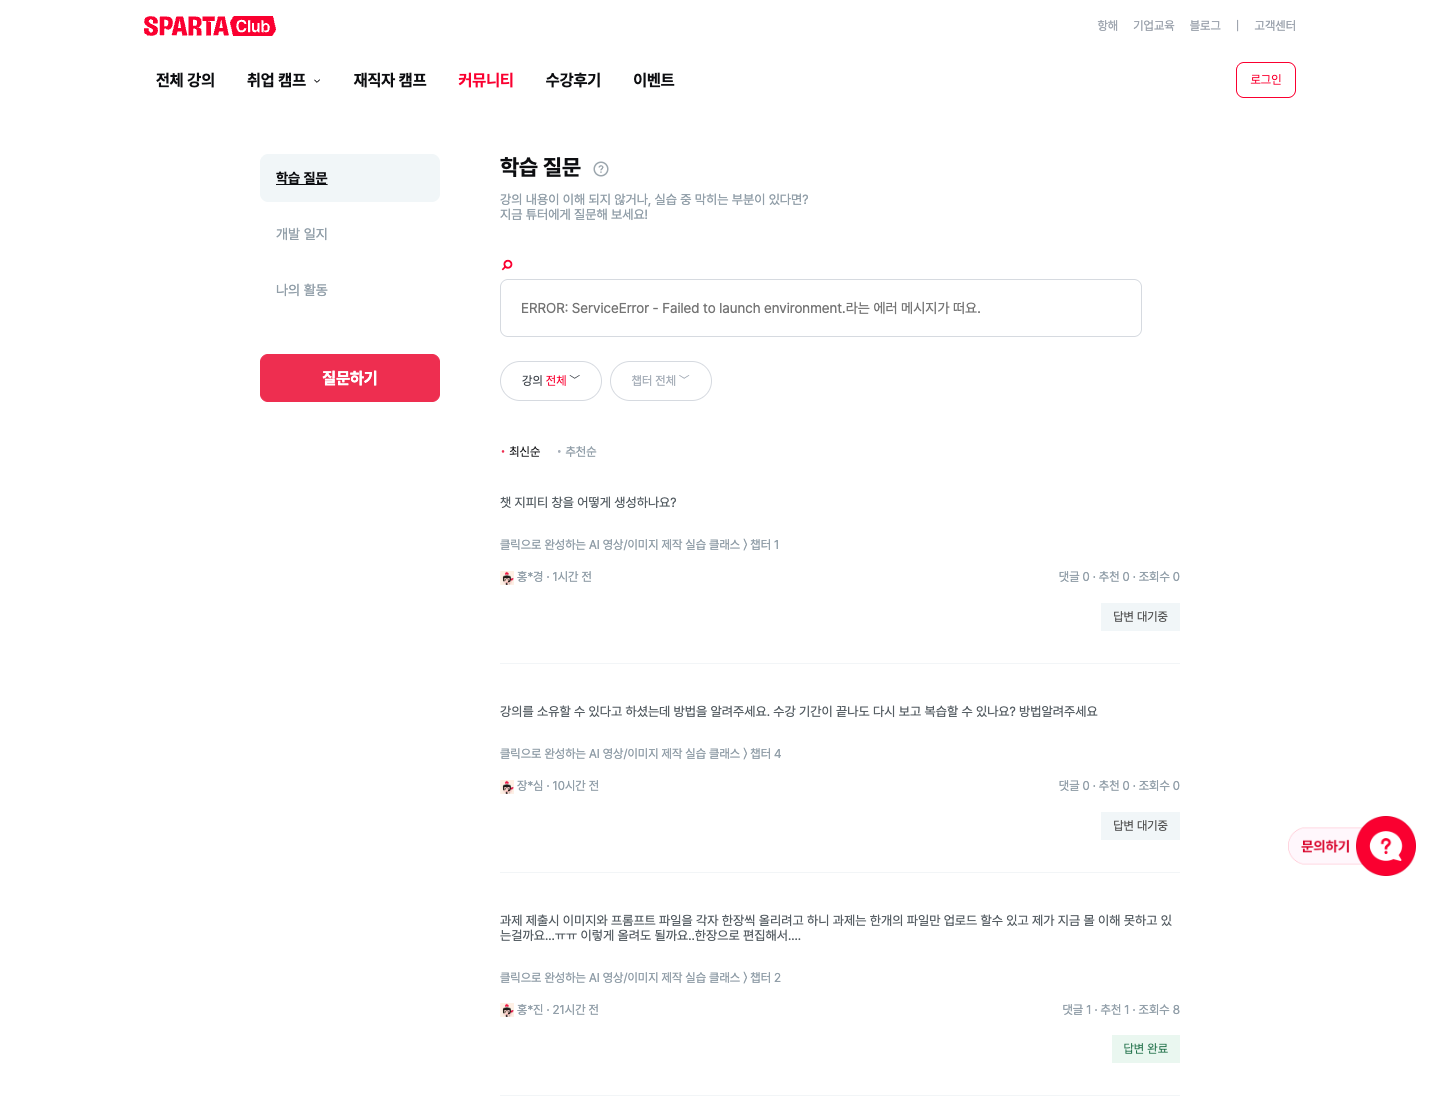
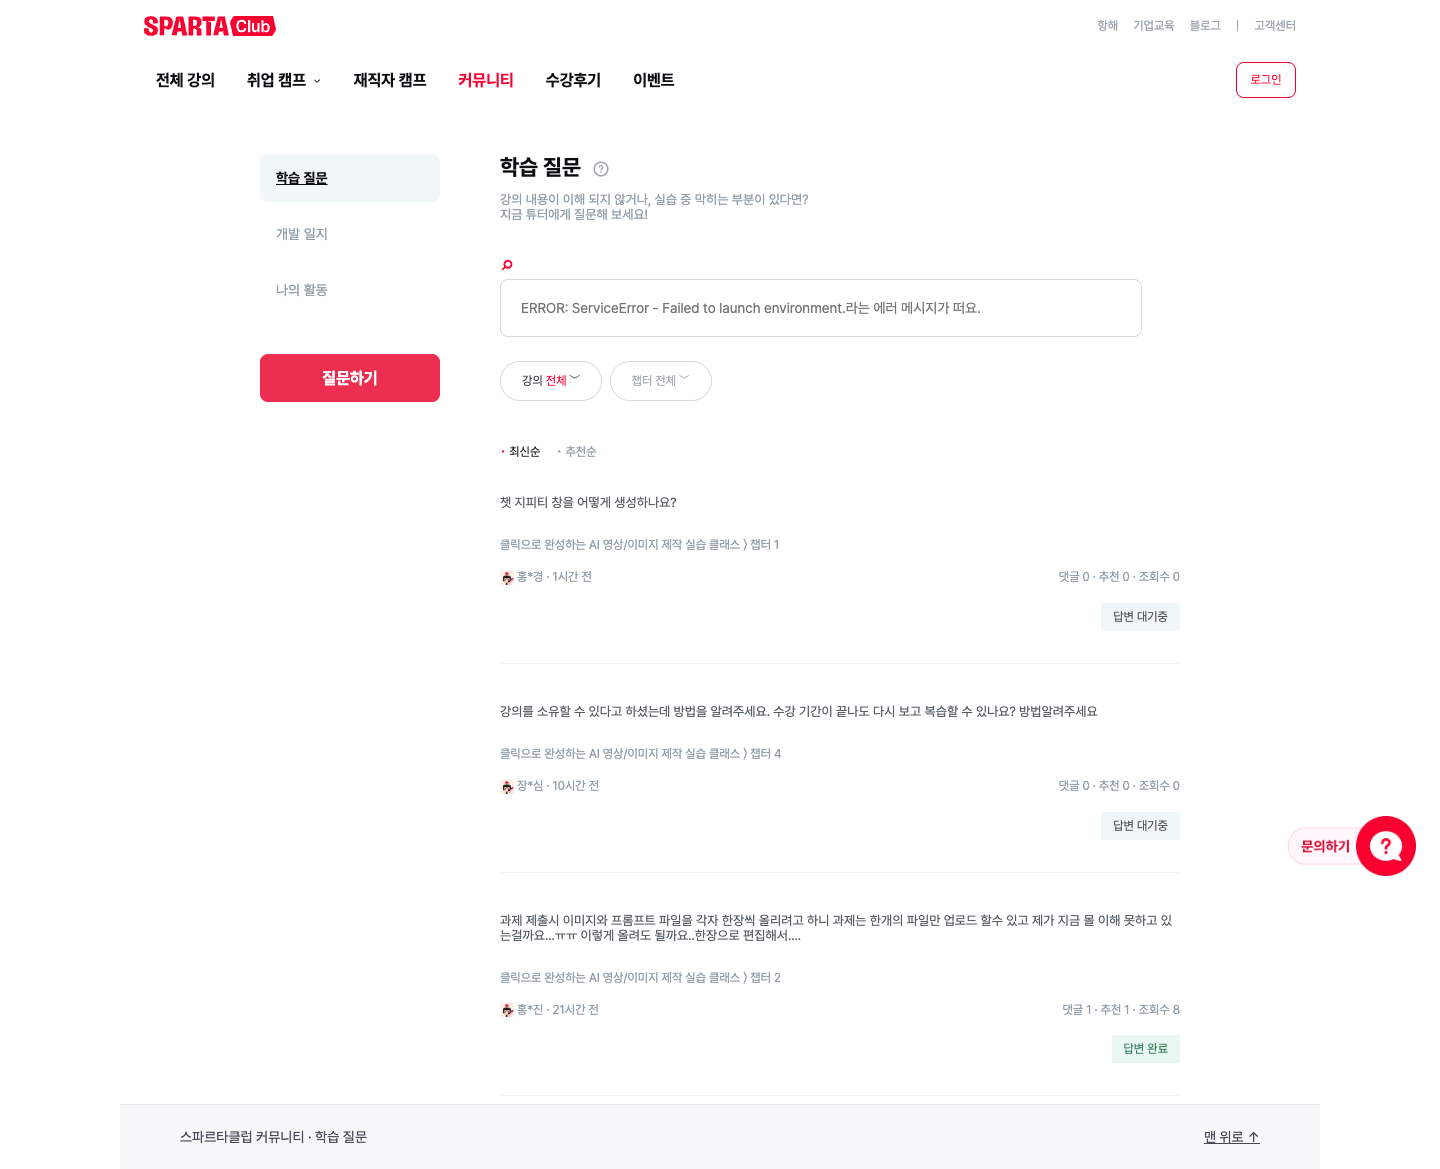
Add clone footer and capture for submission

diff --git a/sparta_mockup/style.css b/sparta_mockup/style.css
@@ -304,3 +304,23 @@ html {
     bottom: var(--spacing-24);
     z-index: 20;
 }
+
+#site-footer {
+    display: flex;
+    flex-wrap: wrap;
+    justify-content: space-between;
+    gap: 12px;
+    padding: 24px 5%;
+    border-top: 1px solid #e2e5e9;
+    color: #444a55;
+    background: #f7f8fa;
+}
+
+#site-footer p {
+    margin: 0;
+}
+
+#site-footer a {
+    color: inherit;
+    text-decoration: underline;
+}

diff --git a/sparta_mockup/커뮤니티.html b/sparta_mockup/커뮤니티.html
@@ -90,6 +90,11 @@
             </main>
         </div>
 
+        <footer id="site-footer">
+            <p>스파르타클럽 커뮤니티 · 학습 질문</p>
+            <a href="#site-header">맨 위로 ↑</a>
+        </footer>
+
         <img id="chat-widget" src="./images/img_chtalk_pc.png" alt="문의하기" width="128" height="60">
     </body>
 </html>

diff --git a/sparta_mockup/README.md b/sparta_mockup/README.md
@@ -25,3 +25,4 @@
 - [전체 화면](./screenshots/full.png)
 - [헤더](./screenshots/header.png)
 - [메인](./screenshots/main.png)
+- [푸터](./screenshots/footer.png)
